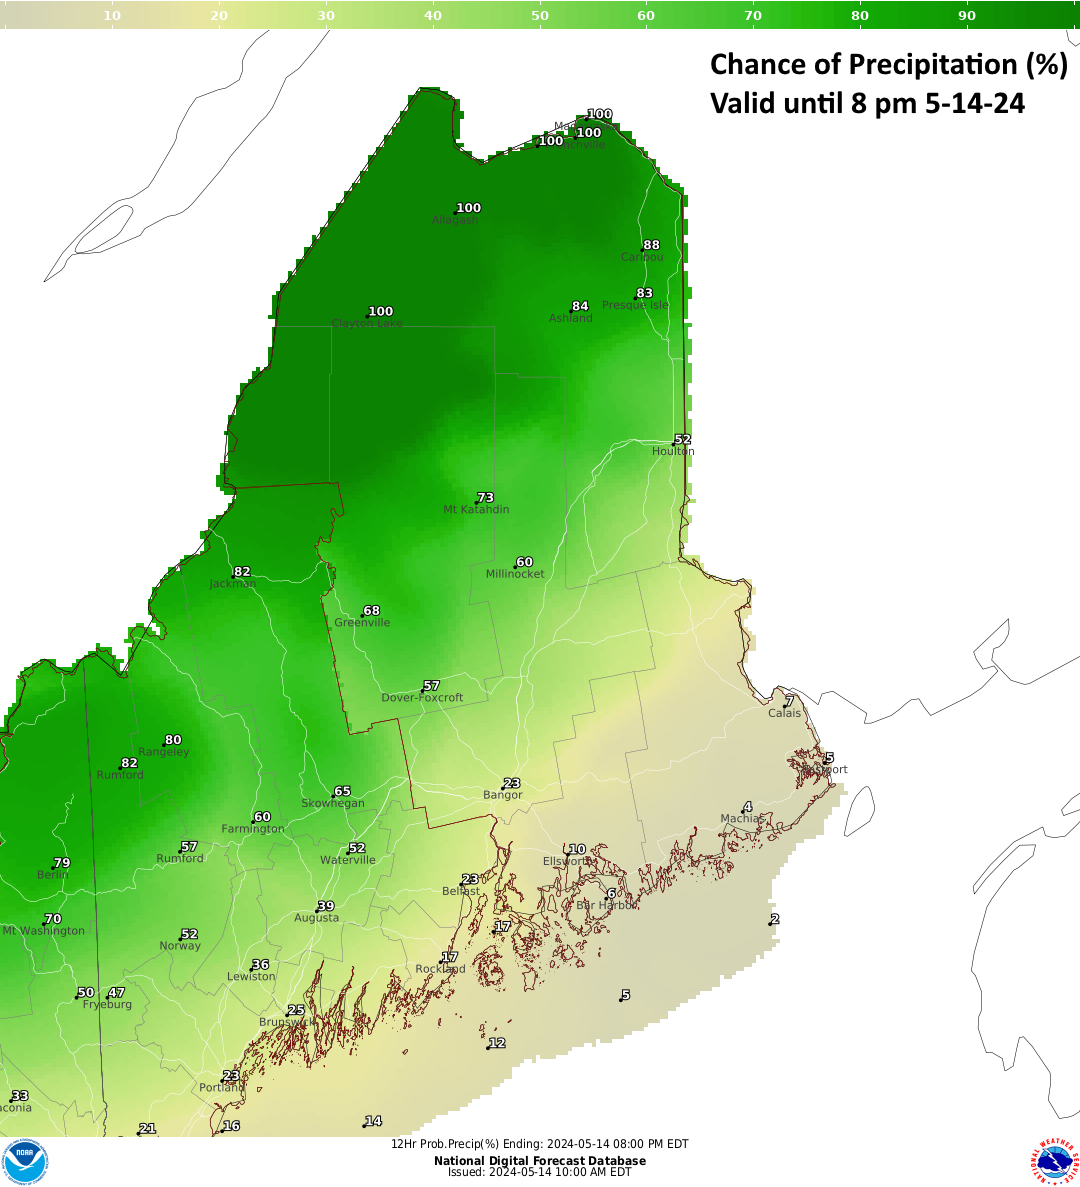
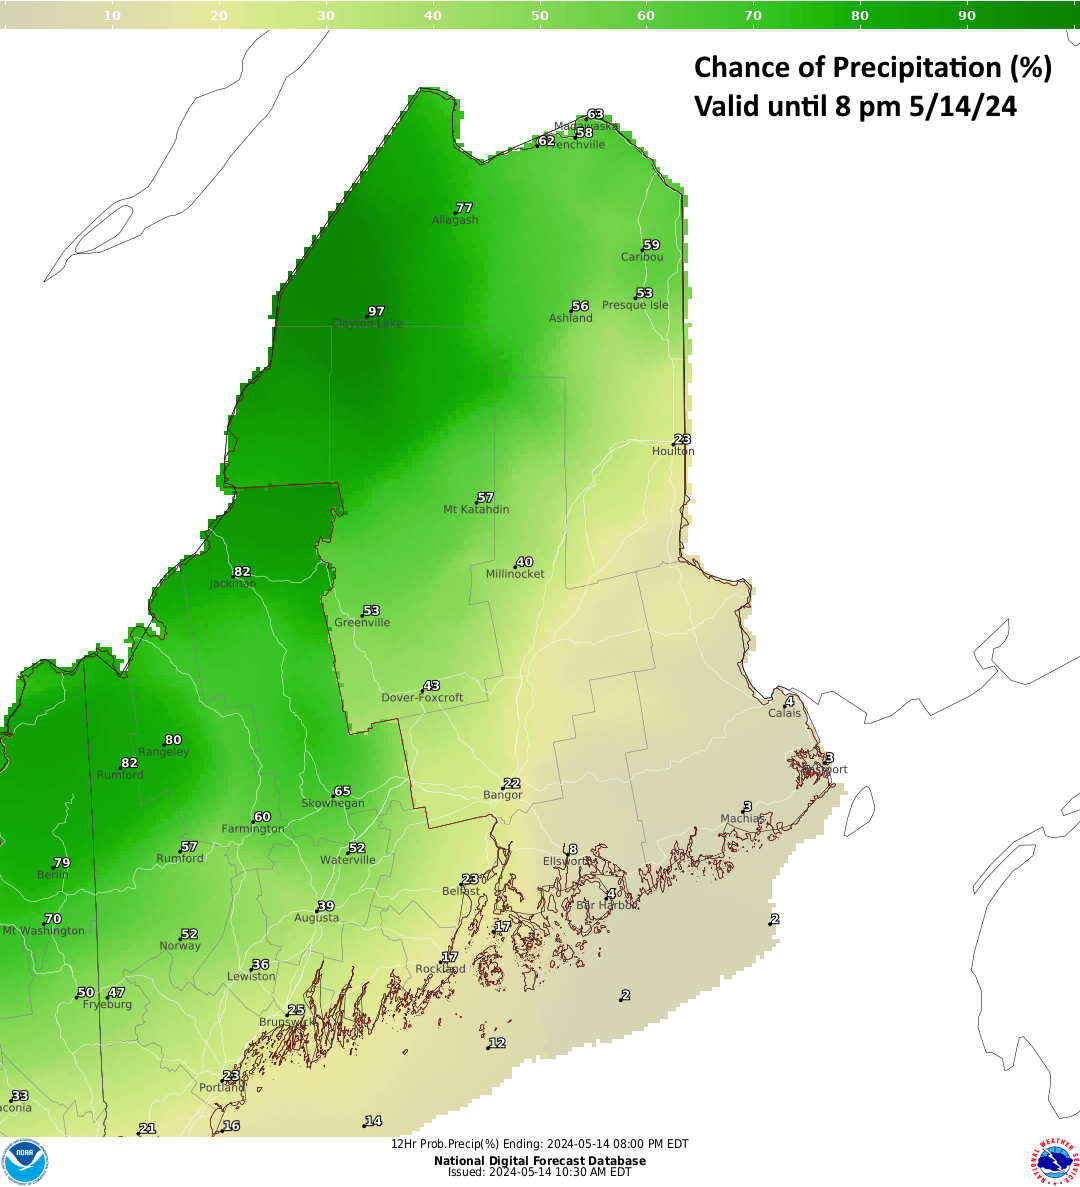
update

Changed region(s): [[0.1833, 0.0623, 0.6722, 0.6546], [0.6417, 0.0312, 1.0, 0.1247]]

diff --git a/index.html b/index.html
@@ -81,8 +81,9 @@
                     <em>Click "AirNow" for more information.</em></em></em></p>
               <p style="font-size: 14px;"><em style="font-size: 13px;"><em style="font-size: 13px;"><em><br>
                     </em></em></em></p>
-              <p style="font-size: 14px;"><em style="font-size: 13px;"><strong>NWS
-                    Caribou Watches, Warnings, and Advisories<br>
+              <p style="font-size: 14px;"><span style="font-size: 13px;"><strong>NWS
+                    Caribou Watches, Warnings, and Advisories</strong></span><em
+                  style="font-size: 13px;"><strong><br>
                   </strong></em><a href="https://www.weather.gov/car/"><img src="https://www.weather.gov/wwamap/png/car.png"
                     alt="NWS Caribou Watches, Warnings, and Advisories" title="Clidk for more information"
                     style="border-width: 1px; border-style: solid; width: 405px; height: 313px;"></a><br>
@@ -91,7 +92,7 @@
             </div>
             <p> </p>
             <div><br>
-              <strong><em style="font-size: 14px;">NE Weather Chart</em><br>
+              <strong><span style="font-size: 14px;">NE Weather Chart</span><br>
               </strong><a href="https://www.wpc.ncep.noaa.gov/sfc/namnesfcwbg.gif"
                 title="Click for larger image"><img src="https://www.wpc.ncep.noaa.gov/sfc/namnesfcwbg.gif"
                   style="width: 413px; border-width: 1px; border-style: solid; height: 310px;"
@@ -112,14 +113,24 @@
               </div>
               <div><br>
               </div>
-              <em><strong>Precipitation Outlook</strong></em><br>
+              <strong>Today's Precipitation Outlook</strong><br>
               <div> <em style="font-size: 14px;"><strong><a href="../Daily%20Wx%20Graphics/car_PoP122.png"
-                      title="Click for larger image"><img src="../Daily%20Wx%20Graphics/car_PoP122.png"
-                        alt="Precipitation Outlook" style="width: 397px; height: 407px; border-width: 1px; border-style: solid;"
+                      title="Click for larger image"><img src="../Documents/GitHub/ApexWx.github.io/B.png"
+                        alt="Precipitation Outlook" style="width: 397px; height: 407px; border-style: none;"
                         title="Click for larger image"></a><br>
                   </strong></em></div>
               <div><em style="font-size: 14px;"><strong><br>
                   </strong></em></div>
+              <div><em style="font-size: 14px;"><strong><br>
+                  </strong></em></div>
+              <div><strong>Tonight's Precipitation Outlook</strong></div>
+              <a href="file:///C:/Users/maine/OneDrive/Desktop/Documents/GitHub/ApexWx.github.io/B2.png"><img
+                  src="../Documents/GitHub/ApexWx.github.io/B2.png" alt="Chance of Precipitation Tonight"
+                  style="width: 403px; height: 439px;"></a>
+              <div><br>
+              </div>
+              <div><br>
+              </div>
               <div><br>
                 <em><strong>Maine Thunderstorm/Severe Weather<br>
                   </strong></em> <a href="https://www.spc.noaa.gov/partners/outlooks/state/ME/"
